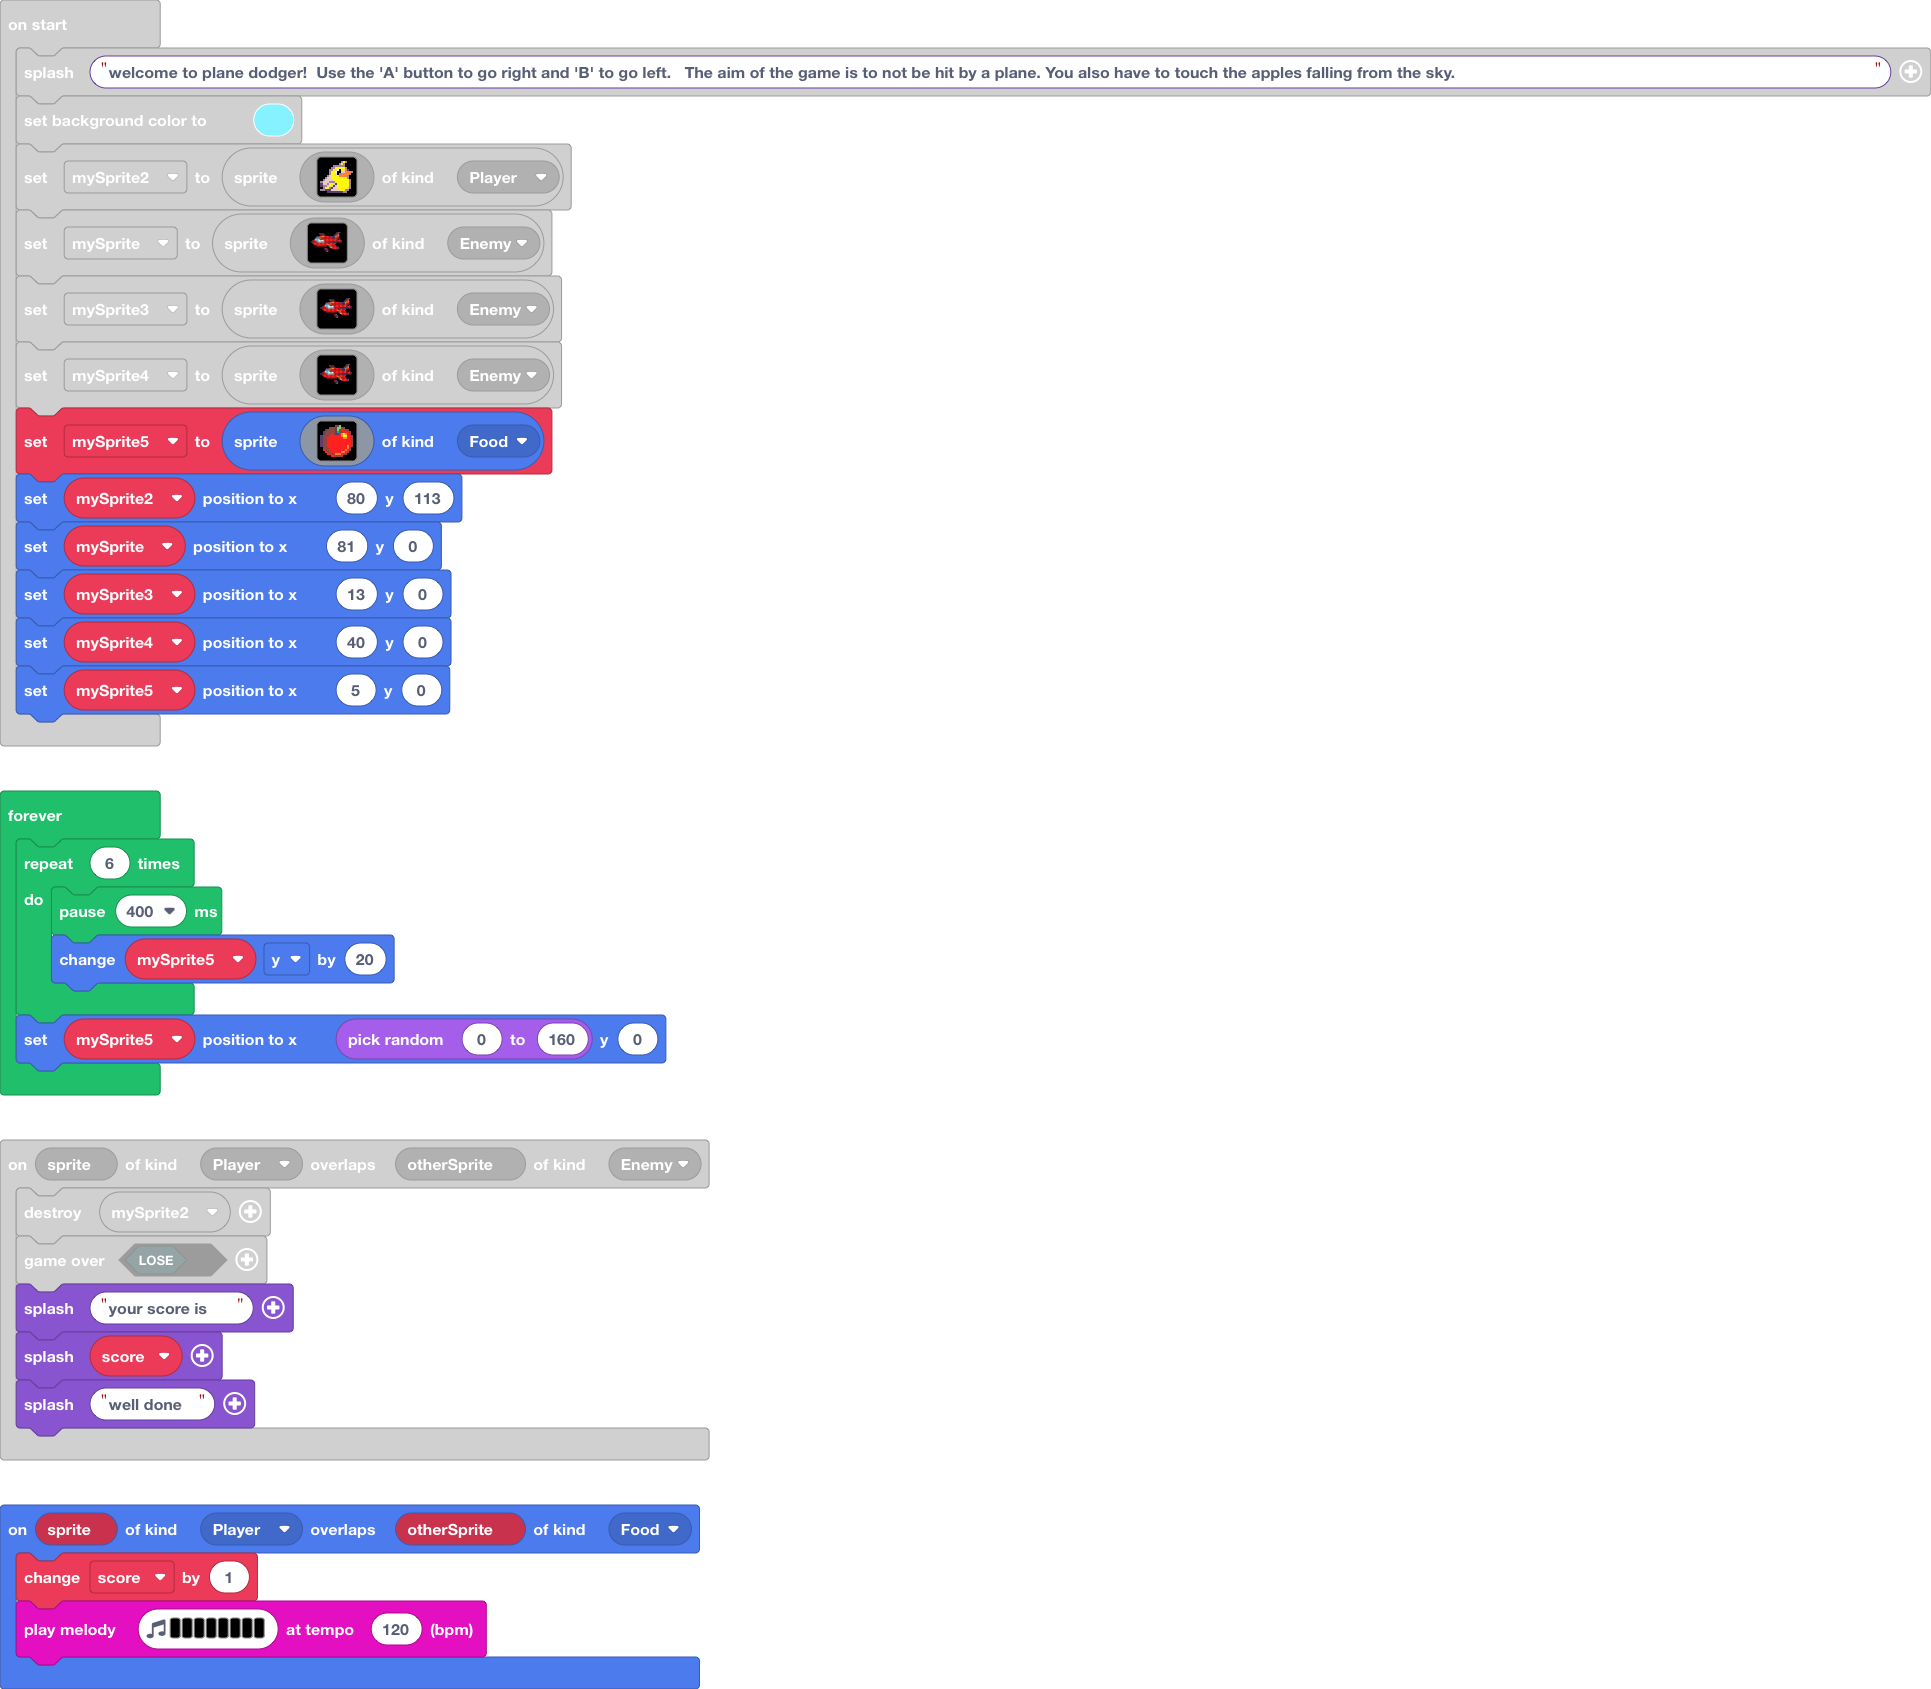
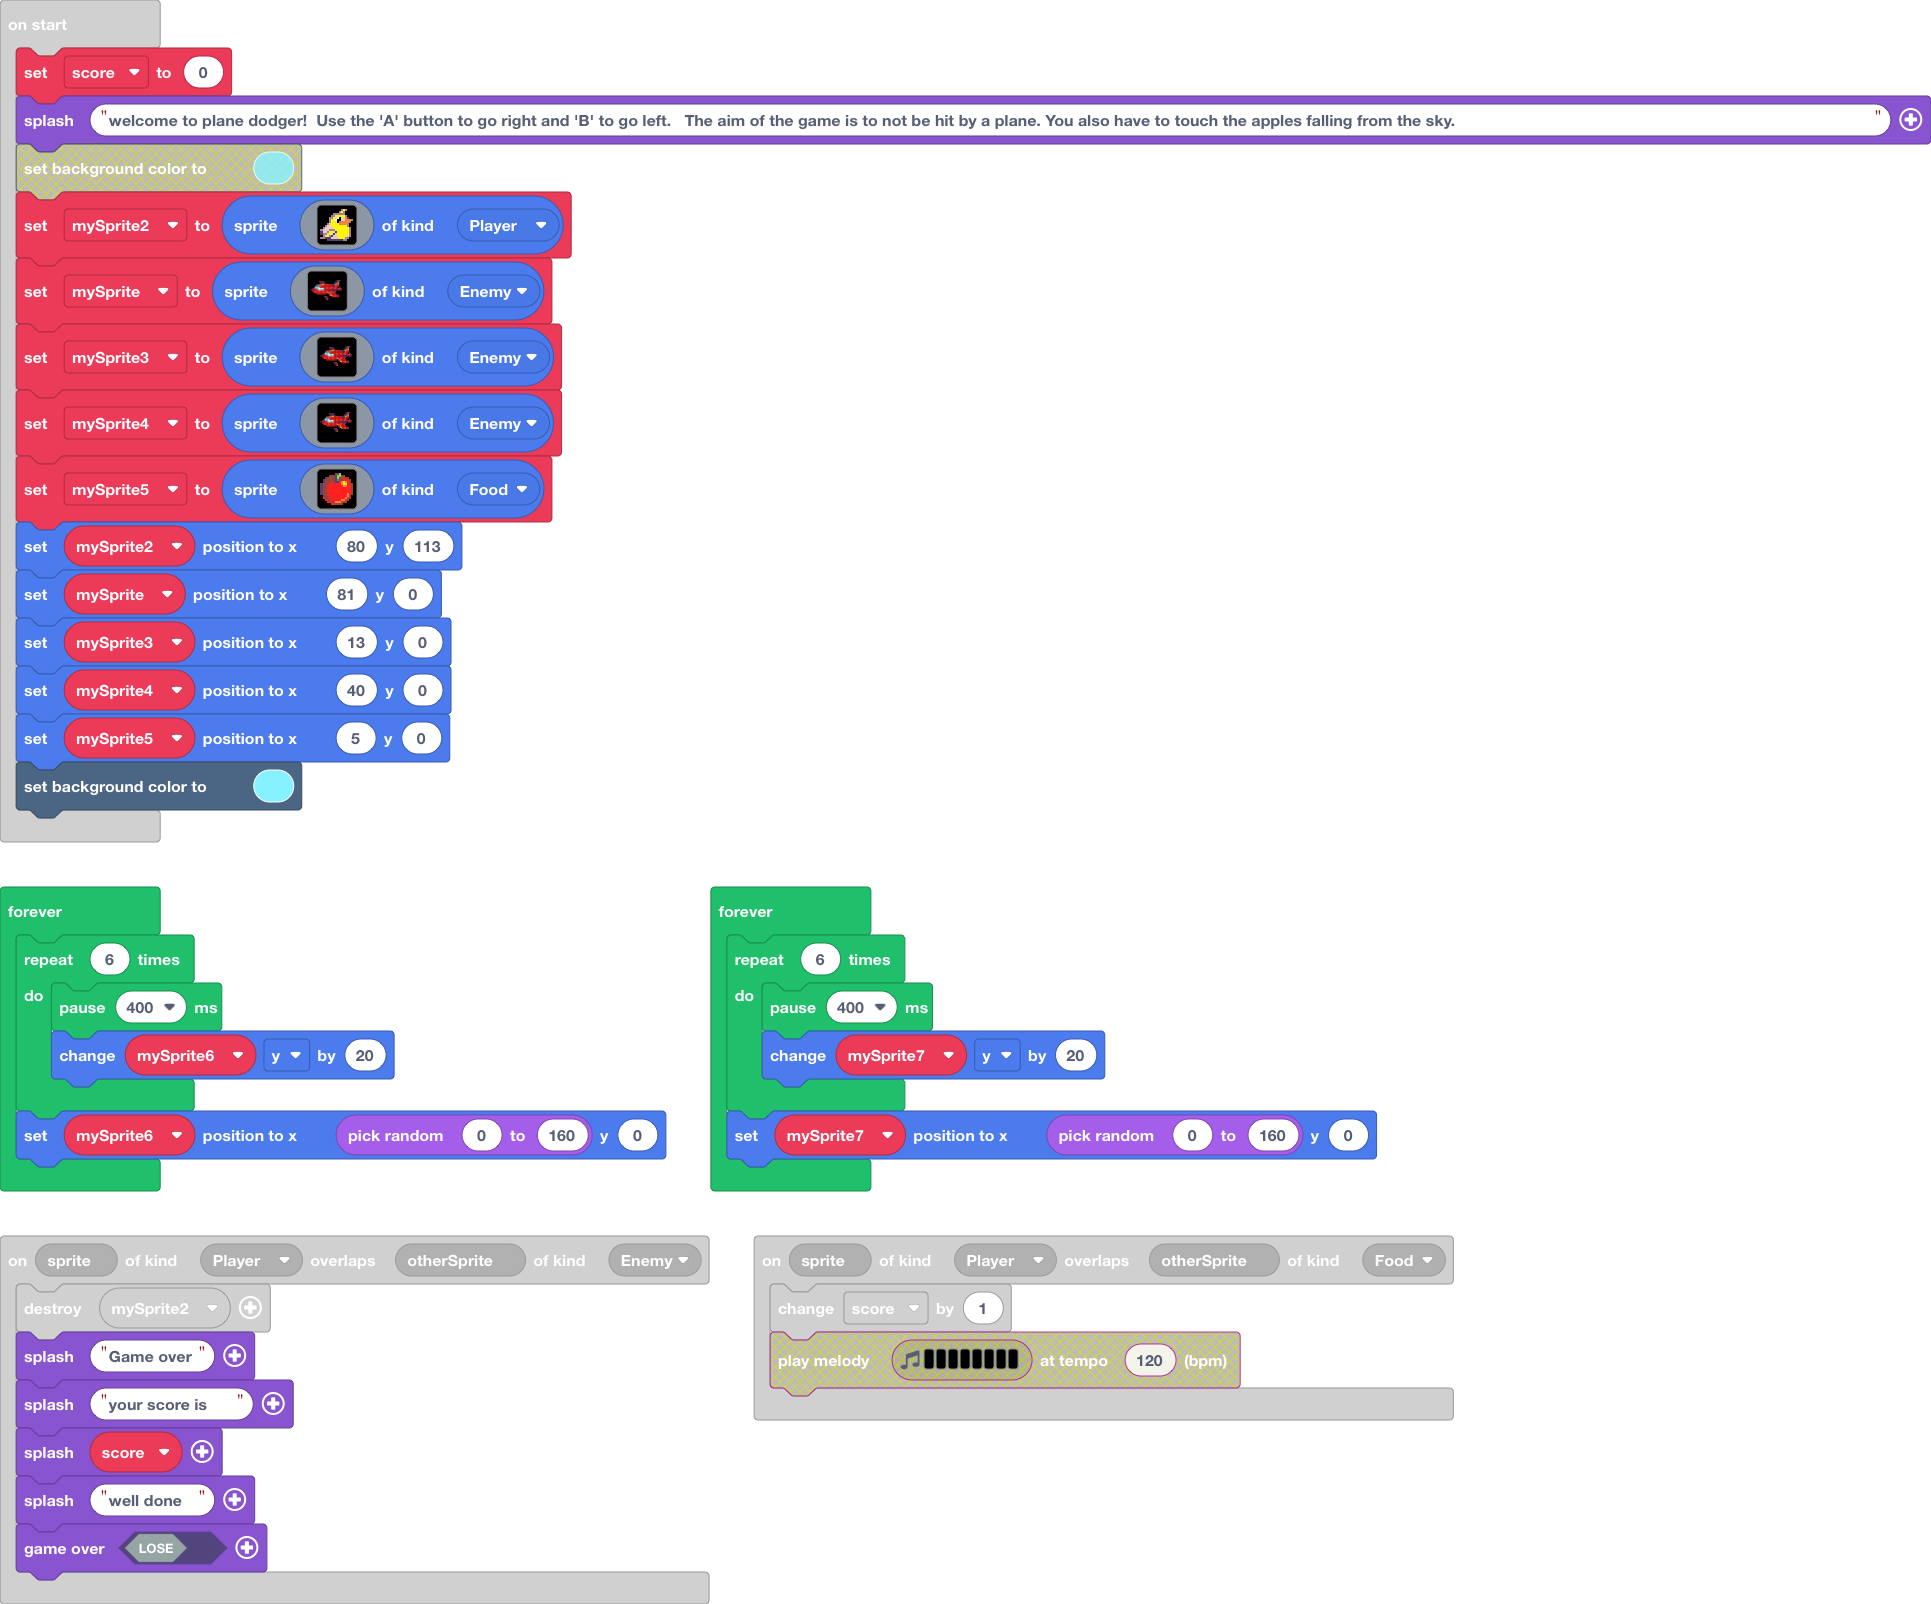
Update main.blocks, main.ts, images.g.jres, images.g.ts

Changed region(s): [[0.0, 0.0312, 1.0, 1.0]]

diff --git a/main.ts b/main.ts
@@ -6,17 +6,18 @@ controller.A.onEvent(ControllerButtonEvent.Pressed, function () {
 })
 sprites.onOverlap(SpriteKind.Player, SpriteKind.Food, function (sprite, otherSprite) {
     score += 1
-    music.playMelody("F A C5 - - - - - ", 120)
 })
 sprites.onOverlap(SpriteKind.Player, SpriteKind.Enemy, function (sprite, otherSprite) {
     mySprite2.destroy()
-    game.over(false)
+    game.splash("Game over")
     game.splash("your score is")
     game.splash(score)
     game.splash("well done")
+    game.over(false)
 })
-let score = 0
 let mySprite2: Sprite = null
+let score = 0
+score = 0
 game.splash("welcome to plane dodger!  Use the 'A' button to go right and 'B' to go left.   The aim of the game is to not be hit by a plane. You also have to touch the apples falling from the sky.")
 scene.setBackgroundColor(9)
 mySprite2 = sprites.create(assets.image`myImage0`, SpriteKind.Player)
@@ -64,6 +65,14 @@ forever(function () {
     mySprite.setPosition(randint(0, 160), 0)
 })
 forever(function () {
+    let mySprite6: Sprite = null
+    for (let index = 0; index < 6; index++) {
+        pause(400)
+        mySprite6.y += 20
+    }
+    mySprite6.setPosition(randint(0, 160), 0)
+})
+forever(function () {
     for (let index = 0; index < 6; index++) {
         pause(400)
         mySprite3.y += 20
@@ -76,4 +85,12 @@ forever(function () {
         mySprite5.y += 20
     }
     mySprite5.setPosition(randint(0, 160), 0)
+})
+forever(function () {
+    let mySprite7: Sprite = null
+    for (let index = 0; index < 6; index++) {
+        pause(400)
+        mySprite7.y += 20
+    }
+    mySprite7.setPosition(randint(0, 160), 0)
 })

diff --git a/images.g.ts b/images.g.ts
@@ -183,6 +183,25 @@ f222222222222c222ccfffff
 . . . . . . . . . . . . . . . . 
 . . . . . . . . . . . . . . . . 
 `;
+            case "image5":
+            case "myImage3":return img`
+9 9 9 1 1 1 9 9 9 9 9 9 9 9 9 9 
+9 9 1 1 1 1 1 9 9 9 9 9 9 9 9 9 
+9 1 1 1 1 1 1 1 9 9 9 9 9 9 9 9 
+9 1 1 1 1 1 1 1 9 9 9 9 9 9 9 9 
+9 9 9 9 9 9 9 9 9 9 9 9 9 9 9 9 
+9 9 9 9 9 9 9 9 9 9 9 9 9 1 9 9 
+9 9 9 9 9 9 9 9 9 9 9 9 1 1 1 9 
+9 9 9 1 1 9 9 9 9 9 9 1 1 1 1 1 
+9 9 9 1 1 1 9 9 9 9 9 9 9 9 9 9 
+9 9 1 1 1 1 1 9 9 9 9 9 9 9 9 9 
+9 9 9 9 9 9 9 9 9 9 9 9 9 9 9 9 
+9 9 9 9 9 9 9 9 9 9 9 9 9 9 9 9 
+9 9 9 9 9 9 9 9 9 9 9 9 9 9 9 9 
+9 9 9 9 9 9 9 9 9 9 9 9 9 9 9 9 
+9 9 9 9 9 9 9 9 9 9 9 9 9 9 9 9 
+9 9 9 9 9 9 9 9 9 9 9 9 9 9 9 9 
+`;
         }
         return null;
     })
